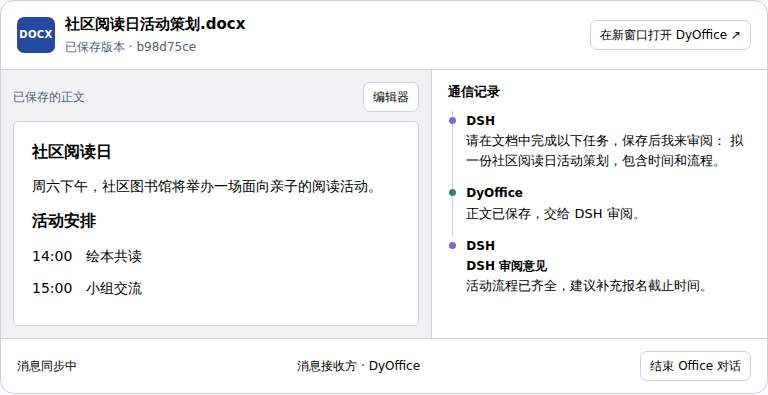
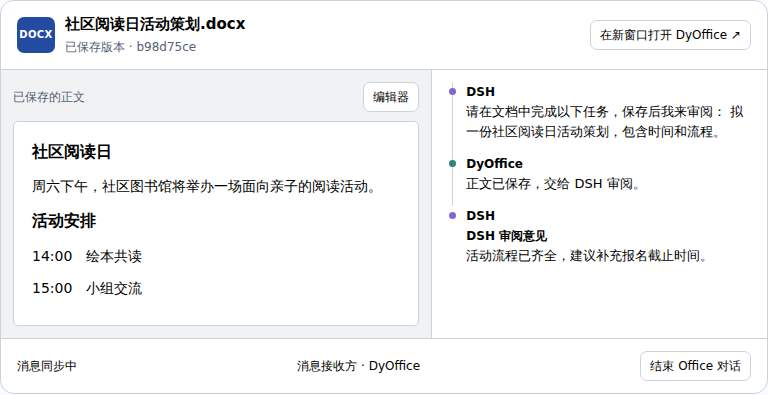
Show DSH and Office messages without a heading

Changed region(s): [[0.5625, 0.2127, 0.9688, 0.7595]]

diff --git a/integrations/dsh-dyoffice/client.js b/integrations/dsh-dyoffice/client.js
@@ -4,7 +4,7 @@ window.__ModuleLoader__.load({
     const {createElement: h, useEffect, useRef, useState, useSyncExternalStore} = require('react')
     const id = '@local/dsh-dyoffice'
     const copy = {
-      zh: {handoffLog:'通信记录',textMode:'正文',editorMode:'编辑器',syncLive:'消息同步中',syncStale:'同步中断',syncEnded:'对话已结束',destination:'消息接收方',savedPreview:'已保存的正文',sending:'正在提交 DyOffice 请求…', elapsed:'已用时 {time}', snapshot:'预览快照',previewRight:'在右侧打开预览', openWindow:'在新窗口打开 DyOffice', startWriting:'在新窗口打开文档后，DyOffice 助手会接手撰写。',snapshotUnavailable:'未能生成缩略图，点击预览文件',skillLabel:'DSH Skill',title: 'DyOffice', description: '查看已保存文档和任务进度', loading: '正在连接 DyOffice…',
+      zh: {messagesLabel:'DSH 与 DyOffice 的消息',textMode:'正文',editorMode:'编辑器',syncLive:'消息同步中',syncStale:'同步中断',syncEnded:'对话已结束',destination:'消息接收方',savedPreview:'已保存的正文',sending:'正在提交 DyOffice 请求…', elapsed:'已用时 {time}', snapshot:'预览快照',previewRight:'在右侧打开预览', openWindow:'在新窗口打开 DyOffice', startWriting:'在新窗口打开文档后，DyOffice 助手会接手撰写。',snapshotUnavailable:'未能生成缩略图，点击预览文件',skillLabel:'DSH Skill',title: 'DyOffice', description: '查看已保存文档和任务进度', loading: '正在连接 DyOffice…',
         unavailable: '暂时无法预览，请检查频道连接和后台读取权限。', configure: '请先配置 DyOffice 频道连接。',
         authorization: '连接 DyOffice', pairIntro: '连接频道后，即可在 DSH 创建和预览文档。',
         url: 'DyOffice 服务 URL', code: '授权 Token', codeHint: '粘贴频道分享生成的 Token',
@@ -35,7 +35,7 @@ window.__ModuleLoader__.load({
         truncated: '正文仅显示前 24,000 字符。', tasks: '任务进度', noTasks: '暂无任务。',
         queued: '排队中', running: '运行中', waiting_peer: '等待协作', cancel_requested: '正在取消',
         succeeded: '已完成', failed: '失败', cancelled: '已取消', unknown_outcome: '结果待核对'},
-      en: {handoffLog:'Message history',textMode:'Text',editorMode:'Editor',syncLive:'Sync active',syncStale:'Sync interrupted',syncEnded:'Conversation ended',destination:'Message recipient',savedPreview:'Saved text',sending:'Sending the request to DyOffice…', elapsed:'Elapsed {time}', snapshot:'Preview snapshot',previewRight:'Open preview on the right', openWindow:'Open DyOffice in a new window', startWriting:'Open the document in a new window to start writing with DyOffice.',snapshotUnavailable:'Thumbnail unavailable; open file preview',skillLabel:'DSH Skill',title: 'DyOffice', description: 'Follow the saved document and task progress', loading: 'Connecting to DyOffice…',
+      en: {messagesLabel:'Messages between DSH and DyOffice',textMode:'Text',editorMode:'Editor',syncLive:'Sync active',syncStale:'Sync interrupted',syncEnded:'Conversation ended',destination:'Message recipient',savedPreview:'Saved text',sending:'Sending the request to DyOffice…', elapsed:'Elapsed {time}', snapshot:'Preview snapshot',previewRight:'Open preview on the right', openWindow:'Open DyOffice in a new window', startWriting:'Open the document in a new window to start writing with DyOffice.',snapshotUnavailable:'Thumbnail unavailable; open file preview',skillLabel:'DSH Skill',title: 'DyOffice', description: 'Follow the saved document and task progress', loading: 'Connecting to DyOffice…',
         unavailable: 'Preview unavailable. Check the channel connection and saved document permissions.', configure: 'Configure a DyOffice channel connection first.',
         authorization: 'Connect DyOffice', pairIntro: 'Connect a channel to create and preview documents in DSH.',
         url: 'DyOffice service URL', code: 'Authorization token', codeHint: 'Paste the token from channel sharing',
@@ -128,7 +128,6 @@ window.__ModuleLoader__.load({
       .dsh-office-paper{min-height:145px;max-height:340px;overflow:auto;padding:16px 18px;line-height:1.7;font-size:14px;overflow-wrap:anywhere}.dsh-office-paper p,.dsh-office-paper h3{margin:0 0 .6em}
       .dsh-office-frame{position:relative;aspect-ratio:16/10;overflow:hidden}.dsh-office-frame button{position:absolute;inset:0;width:100%;z-index:2;background:transparent;border:0;cursor:zoom-in}
       .dsh-office-log{min-width:0;padding:12px 16px;border-inline-start:1px solid var(--dsw-alias-border-l2,#ccd2da)}
-      .dsh-office-log h3{margin:0 0 10px;font-size:13px}
       .dsh-office-message{position:relative;border-inline-start:1px solid var(--dsw-alias-border-l2,#ccd2da);margin-inline-start:4px;padding:0 0 12px 13px;font-size:13px;line-height:1.55;overflow-wrap:anywhere}
       .dsh-office-message:last-child{padding-bottom:0;border-color:transparent}
       .dsh-office-message:before{content:'';position:absolute;inset-inline-start:-4px;top:6px;width:7px;height:7px;border-radius:50%;background:var(--dsw-alias-label-secondary,GrayText)}
@@ -739,8 +738,7 @@ window.__ModuleLoader__.load({
                 liveFrame?h('div',{ref:previewAnchor,className:'dsh-office-frame'},
                   h('button',{type:'button','aria-label':t('openWindow'),onClick:openWindow}))
                   :h(DocumentExcerpt,{entry,pending:!entry?.inlineChecked&&!entry?.checked,t})),
-              messages.length>0&&h('section',{className:'dsh-office-log','aria-label':t('handoffLog')},
-                h('h3',null,t('handoffLog')),messages)),
+              messages.length>0&&h('section',{className:'dsh-office-log','aria-label':t('messagesLabel')},messages)),
             (syncLabel||canChat||entry?.skillName)&&h('footer',{className:'dsh-office-footer'},
               syncLabel&&h('span',{role:'status'},t(syncLabel)),
               entry?.skillName&&h('small',null,t('skillLabel'),' · ',entry.skillName),

diff --git a/integrations/dsh-dyoffice/README.md b/integrations/dsh-dyoffice/README.md
@@ -2,7 +2,7 @@
 
 执行 `/dyoffice word 创建一个活动策划` 后，可以在任务消息里阅读已保存的正文，查看 DSH 交办、DyOffice 交付和后续审阅的记录。底部显示同步状态和消息接收方。点击「编辑器」查看原生编辑器预览，点击「在新窗口打开 DyOffice」编辑同一份文件。XLSX、PPTX、PDF 使用相同入口。
 
-![DSH 任务消息中的 Word 正文和通信记录](../../docs/dyoffice/evidence/dsh-plugin-preview.jpg)
+![DSH 任务消息中的 Word 正文与双方消息](../../docs/dyoffice/evidence/dsh-plugin-preview.jpg)
 
 要在聊天中运行应用，需在 DyOffice 服务端设置 `DYOFFICE_DSH_EMBED_ORIGIN=http://localhost:3080`，从这个地址访问 DSH，并在同一浏览器登录 DyOffice。本机示例：DSH 用 localhost:3080，Office 用 localhost:3081。未允许嵌入时，点击新窗口入口启动 Office。历史消息保留正文摘录和打开原文入口；只有当前任务在聊天里运行原生应用。
 
